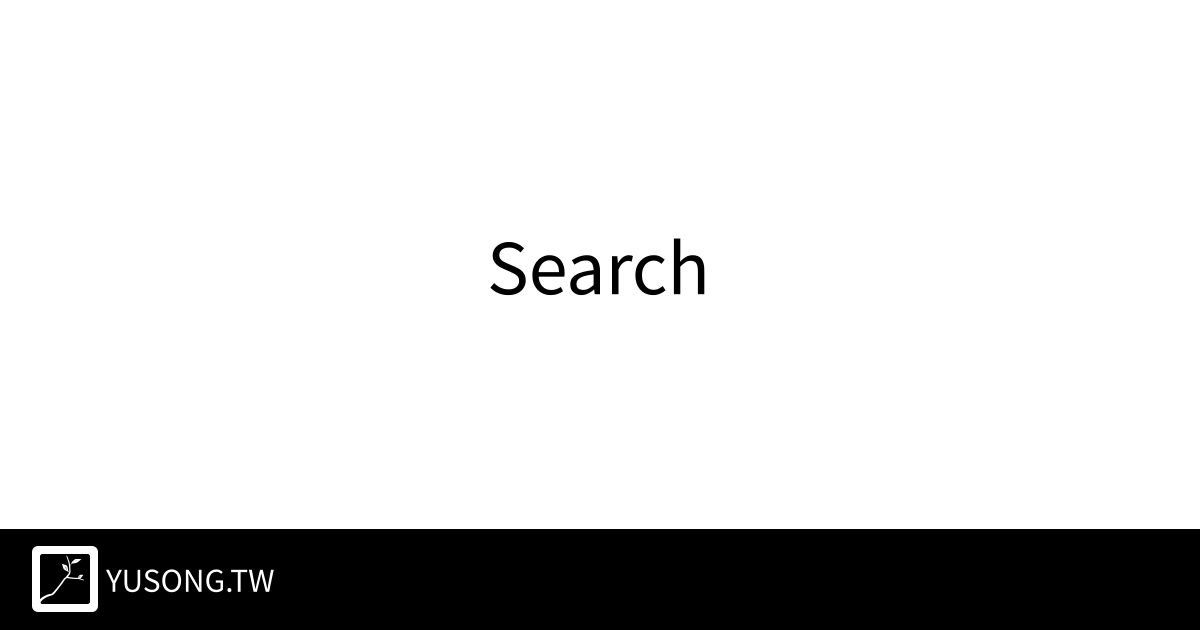
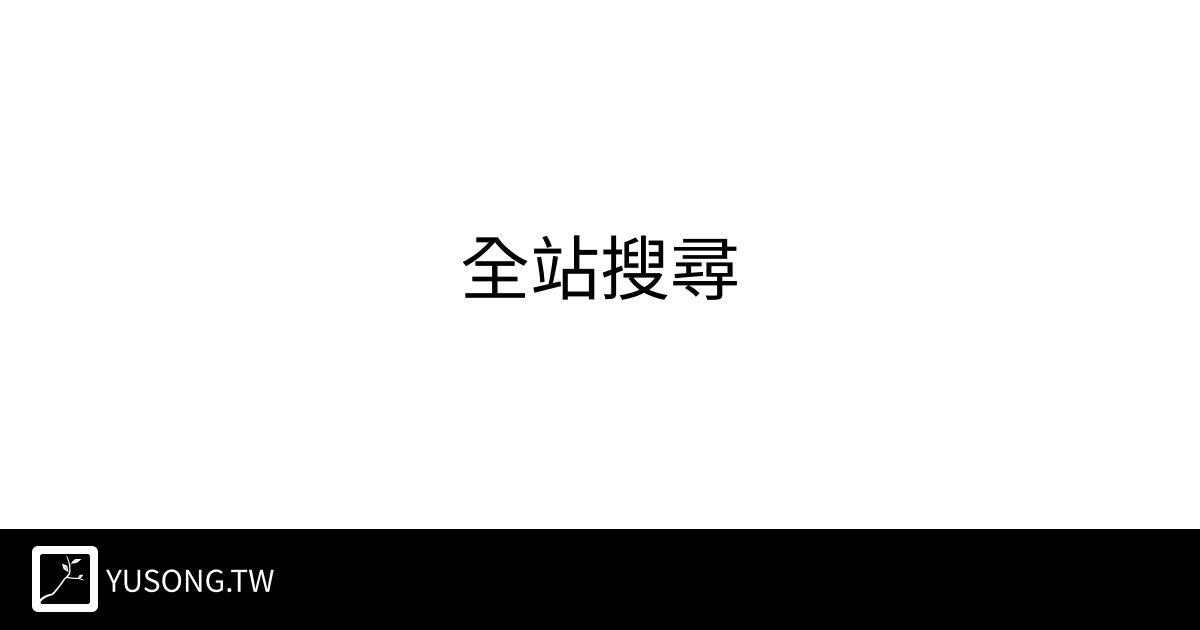
feat: search support en (#225)
* Update index.meta.js

* feat: search support en

* feat: add en search meta

* Delete src/pages/article/pwa/service-worker-cache directory

* Delete src/pages/article/pwa/service-worker-lifecycle directory

* Delete src/pages/article/pwa/pwa-notification directory

* Delete src/pages/article/pwa/pwa-install directory

Changed region(s): [[0.37, 0.3619, 0.6167, 0.4825]]

diff --git a/src/pages/search/index.meta.js b/src/pages/search/index.meta.js
@@ -1,5 +1,5 @@
 const meta = {
-  title: 'Search',
-  description: 'Search YUSONG.TW content'
+  title: '全站搜尋',
+  description: '以標題、描述或標籤搜尋 YUSONG.TW'
 }
 export default meta

diff --git a/src/pages/en/search/index.meta.js b/src/pages/en/search/index.meta.js
@@ -1,0 +1,5 @@
+const meta = {
+  title: 'Site search',
+  description: 'Searching YUSONG.TW with title, description or tags'
+}
+export default meta

diff --git a/src/pages/en/search/index.jsx b/src/pages/en/search/index.jsx
@@ -1,0 +1,7 @@
+import Search from '@/src/pages/search/index.jsx'
+
+const EnSearch = () => {
+  return <Search />
+}
+
+export default EnSearch
